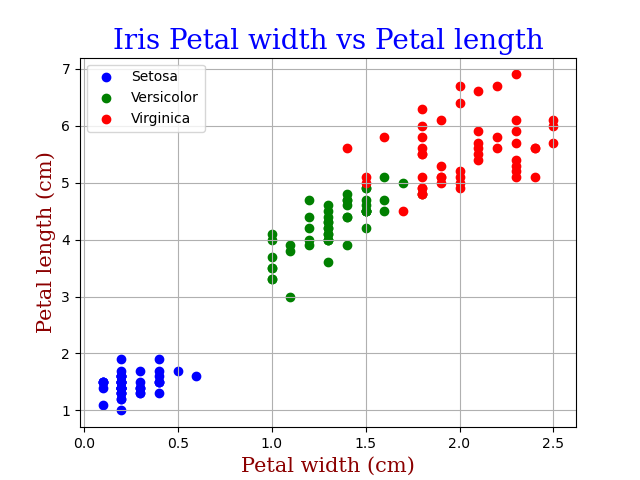
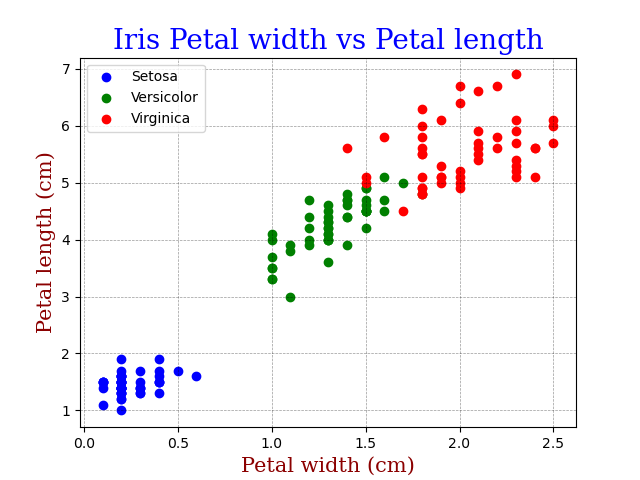
Adding grids to histograms

diff --git a/analysis.py b/analysis.py
@@ -166,6 +166,9 @@ def create_histogram(df, variable): #The function takes in two parameters, the d
     #Add a title
     ax.set_title(variable.capitalize().replace('_', ' '), fontdict=font1)
 
+    #Add a grid
+    ax.grid(linestyle='--', linewidth=0.5, color='black', alpha=0.4)
+
     #Add a legend
     ax.legend()
 
@@ -202,7 +205,7 @@ def create_scatter_plot(df, x, y): #The function takes in three parameters, the 
     ax.set_ylabel(y.capitalize().replace('_', ' ') + " (cm)", fontdict=font2)
 
     #Add a grid
-    ax.grid()
+    ax.grid(linestyle='--', linewidth=0.5, color='black', alpha=0.4)
 
     #Add a title
     ax.set_title("Iris " + x.capitalize().replace('_', ' ') + " vs " + y.capitalize().replace('_', ' '), fontdict=font1)
